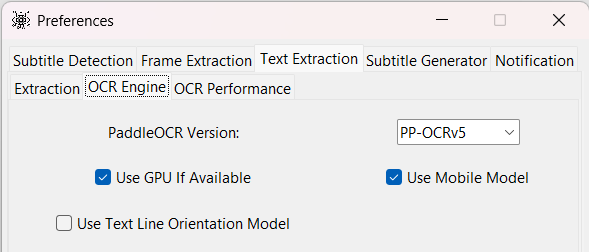
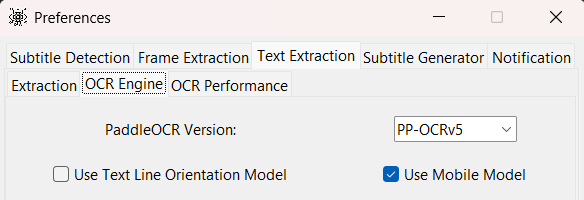
use gpu moved to ocr perf

diff --git a/gui.py b/gui.py
@@ -1180,11 +1180,11 @@ class PreferencesUI(tk.Toplevel):
             width=self.combobox_size
         ).grid(column=1, row=0)
 
-        self.use_gpu = self.make_pref_var(utils.CONFIG.use_gpu)
+        self.use_text_ori = self.make_pref_var(utils.CONFIG.use_text_ori)
         ttk.Checkbutton(
             models_frame,
-            text='Use GPU If Available',
-            variable=self.use_gpu
+            text='Use Text Line Orientation Model',
+            variable=self.use_text_ori
         ).grid(column=0, row=1)
 
         self.use_mobile_model = self.make_pref_var(utils.CONFIG.use_mobile_model)
@@ -1193,13 +1193,6 @@ class PreferencesUI(tk.Toplevel):
             text='Use Mobile Model',
             variable=self.use_mobile_model
         ).grid(column=1, row=1)
-
-        self.use_text_ori = self.make_pref_var(utils.CONFIG.use_text_ori)
-        ttk.Checkbutton(
-            models_frame,
-            text='Use Text Line Orientation Model',
-            variable=self.use_text_ori
-        ).grid(column=0, row=2, pady=self.wgt_y_padding)
 
     def _ocr_performance_tab(self, notebook_tab) -> None:
         model_performance_frame = ttk.Frame(self.notebook_tab)
@@ -1241,13 +1234,20 @@ class PreferencesUI(tk.Toplevel):
         )
         self.gpu_ocr_processes_sb.grid(column=1, row=2)
 
+        self.use_gpu = self.make_pref_var(utils.CONFIG.use_gpu)
+        ttk.Checkbutton(
+            model_performance_frame,
+            text='Use GPU If Available',
+            variable=self.use_gpu
+        ).grid(column=0, row=3)
+
         self.auto_optimize_perf = self.make_pref_var(utils.CONFIG.auto_optimize_perf)
         self.auto_optimize_perf.trace_add("write", self._set_ocr_perf_state)
         ttk.Checkbutton(
             model_performance_frame,
             text='Auto Optimize Performance',
             variable=self.auto_optimize_perf
-        ).grid(column=0, row=3)
+        ).grid(column=1, row=3)
 
     def _set_ocr_perf_state(self, *args) -> None:
         """

diff --git a/utilities/utils.py b/utilities/utils.py
@@ -67,7 +67,6 @@ class Config:
         },
         "OCR Engine": {
             "paddleocr_version": (str, "PP-OCRv5"),
-            "use_gpu": (bool, True),
             "use_mobile_model": (bool, True),
             "use_text_ori": (bool, False),
         },
@@ -75,6 +74,7 @@ class Config:
             "cpu_ocr_processes": (int, physical_cores // 2),
             "cpu_onnx_intra_threads": (int, max(4, int(physical_cores / 2.5))),
             "gpu_ocr_processes": (int, max(2, physical_cores // 3)),
+            "use_gpu": (bool, True),
             "auto_optimize_perf": (bool, True),
         },
     }

diff --git a/docs/Preferences.md b/docs/Preferences.md
@@ -63,8 +63,6 @@ work properly if the OCR detects a lot of space on the same line of text.
 
 **PaddleOCR Version**: The Paddle ocr version that will be used for the text detection and recognition.
 
-**Use GPU if available**: The GPU will be used to speed up the text extraction if available.
-
 **Use Mobile Model**: Determines whether the server or mobile version of the model is used. The server model is very
 slow but has higher accuracy while the mobile model is fast but has a lower accuracy.
 
@@ -86,6 +84,8 @@ if GPU is available. Using too many will cause a performance decrease due to ove
 
 **_Note:_** Onnx Intra Threads & OCR Processes might require some testing with different values to determine the
 optimal values that provide high utilization of the CPU.
+
+**Use GPU if available**: The GPU will be used to speed up the text extraction if available.
 
 **Auto Optimize Performance**: The OCR processes and onnx threads will be auto adjusted to allow optimal CPU usage.
 
